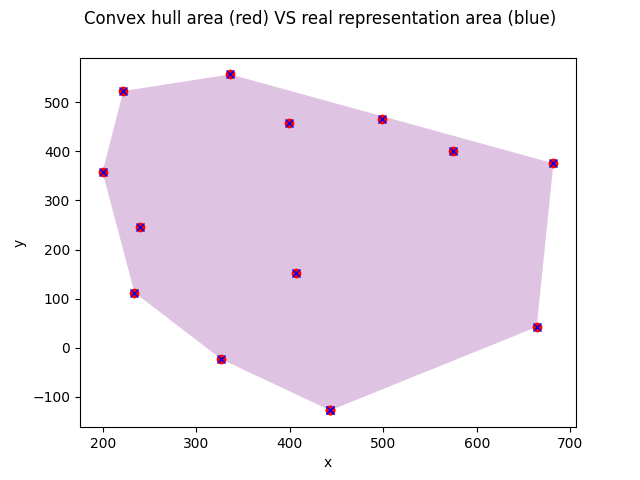
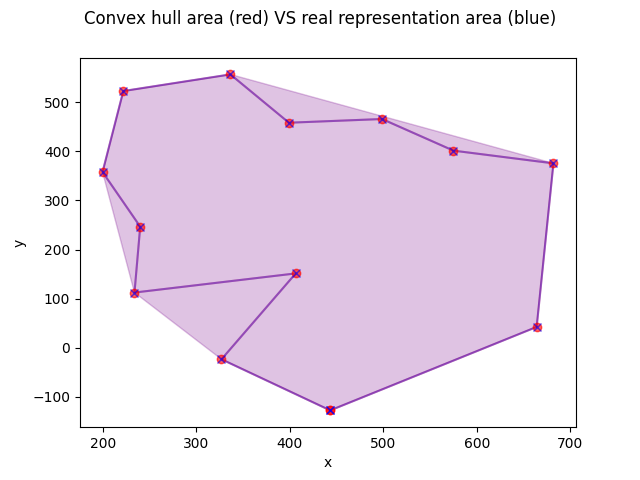
Slight imrpvoement on plotting: now also drawing polygon lines

diff --git a/validation/utils/m1.py b/validation/utils/m1.py
@@ -25,10 +25,12 @@ def save_fig(dir: str):
     plt.clf()
 
 
-def plot_polygons(hull: list, real_hull: list, perceived_poly: list, real_poly: list, dir: str = None, color1="#ff000020", color2="#0000FF20"):
+def plot_polygons(hull: list, real_hull: list, perceived_poly: list, real_poly: list, dir: str = None):
     """Plot the given two polygons, in a single figure, with different colors"""
-    p1_x, p1_y = extract_x_y(hull)
-    p2_x, p2_y = extract_x_y(real_hull)
+    h1_x, h1_y = extract_x_y(hull)
+    h2_x, h2_y = extract_x_y(real_hull)
+    p1_x, p1_y = extract_x_y(perceived_poly)
+    p2_x, p2_y = extract_x_y(real_poly)
 
     # Figure settings
     fig = plt.figure()
@@ -36,15 +38,19 @@ def plot_polygons(hull: list, real_hull: list, perceived_poly: list, real_poly: 
     plt.xlabel('x')
     plt.ylabel('y')
 
-    # Plotting polygons
-    plt.fill(p1_x, p1_y, color1)
-    plt.fill(p2_x, p2_y, color2)
+    # Plotting hulls
+    plt.fill(h1_x, h1_y, color="#FF000020")
+    plt.fill(h2_x, h2_y, color="#0000FF20")
 
-    # Plotting points
+    # Plotting polygons lines
+    plt.plot(p1_x, p1_y, color="#FF000060")
+    plt.plot(p2_x, p2_y, color="#0000FF60")
+
+    # Plotting polygons points
     for p in perceived_poly:
-        plt.plot(p[X_COORDINATE], p[Y_COORDINATE], 'o', color="r")
+        plt.plot(p[X_COORDINATE], p[Y_COORDINATE], 'o', color="#FF0000A0")
     for p in real_poly:
-        plt.plot(p[X_COORDINATE], p[Y_COORDINATE], 'x', color="b")
+        plt.plot(p[X_COORDINATE], p[Y_COORDINATE], 'x', color="#0000FFA0")
 
     # plt.show()
     if dir is not None:
